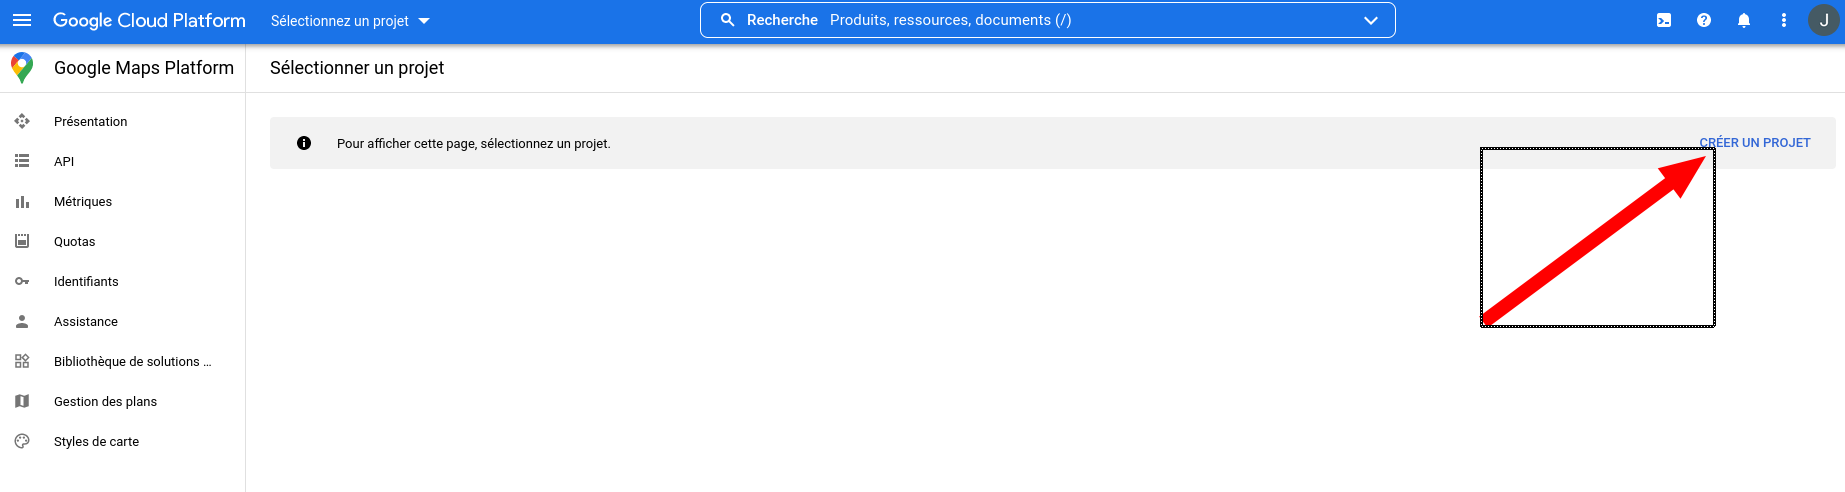
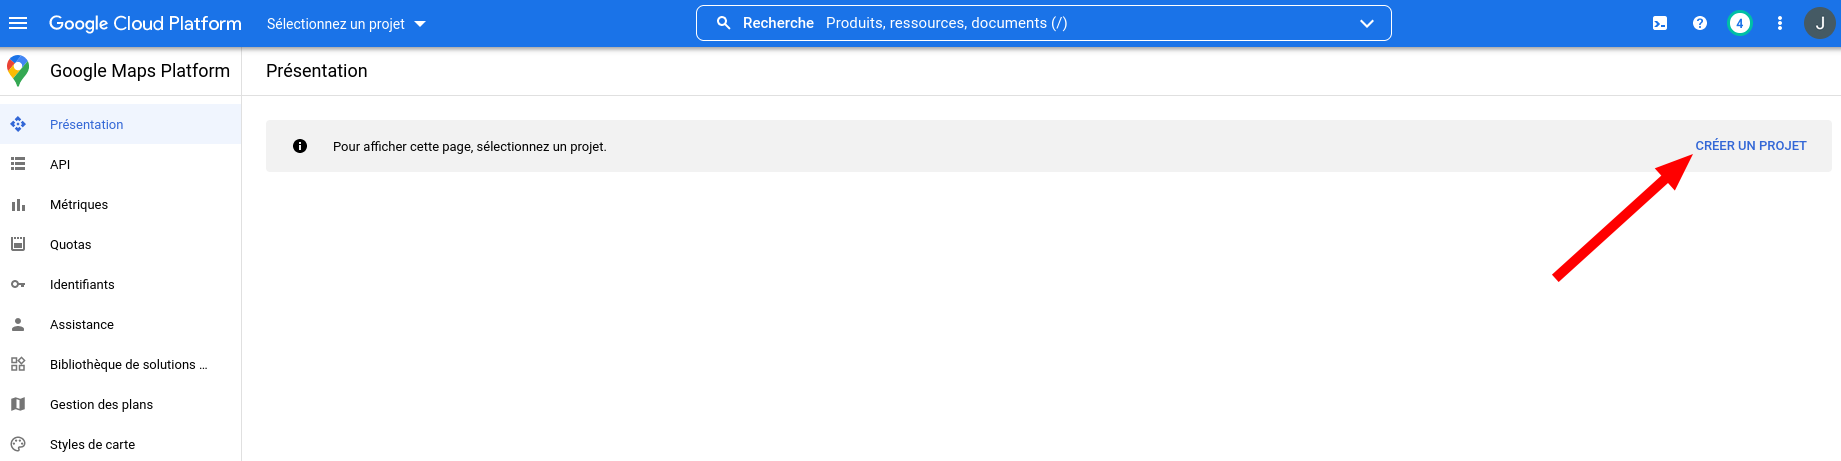
Replace bad documentation images

diff --git a/README.md b/README.md
@@ -49,7 +49,7 @@ La page demandera alors quelques informations de base pour finaliser la créatio
 
 ### Créer un projet
 
-Dans la page finalement ouverte, en faut à droite, cliquer sur `CRÉER UN PROJET`. Voir l'image qui suit.
+Dans la page finalement ouverte, en haut à droite, cliquer sur `CRÉER UN PROJET`. Voir l'image qui suit.
 ![Créer un projet](documentation/1-Creer_un_projet.png)
 
 Donner un nom de projet (ex : `Carte membre QS Laurier-Dorion`). Le nom n'est pas très important, tant qu'il est posible de s'en rappeler.
